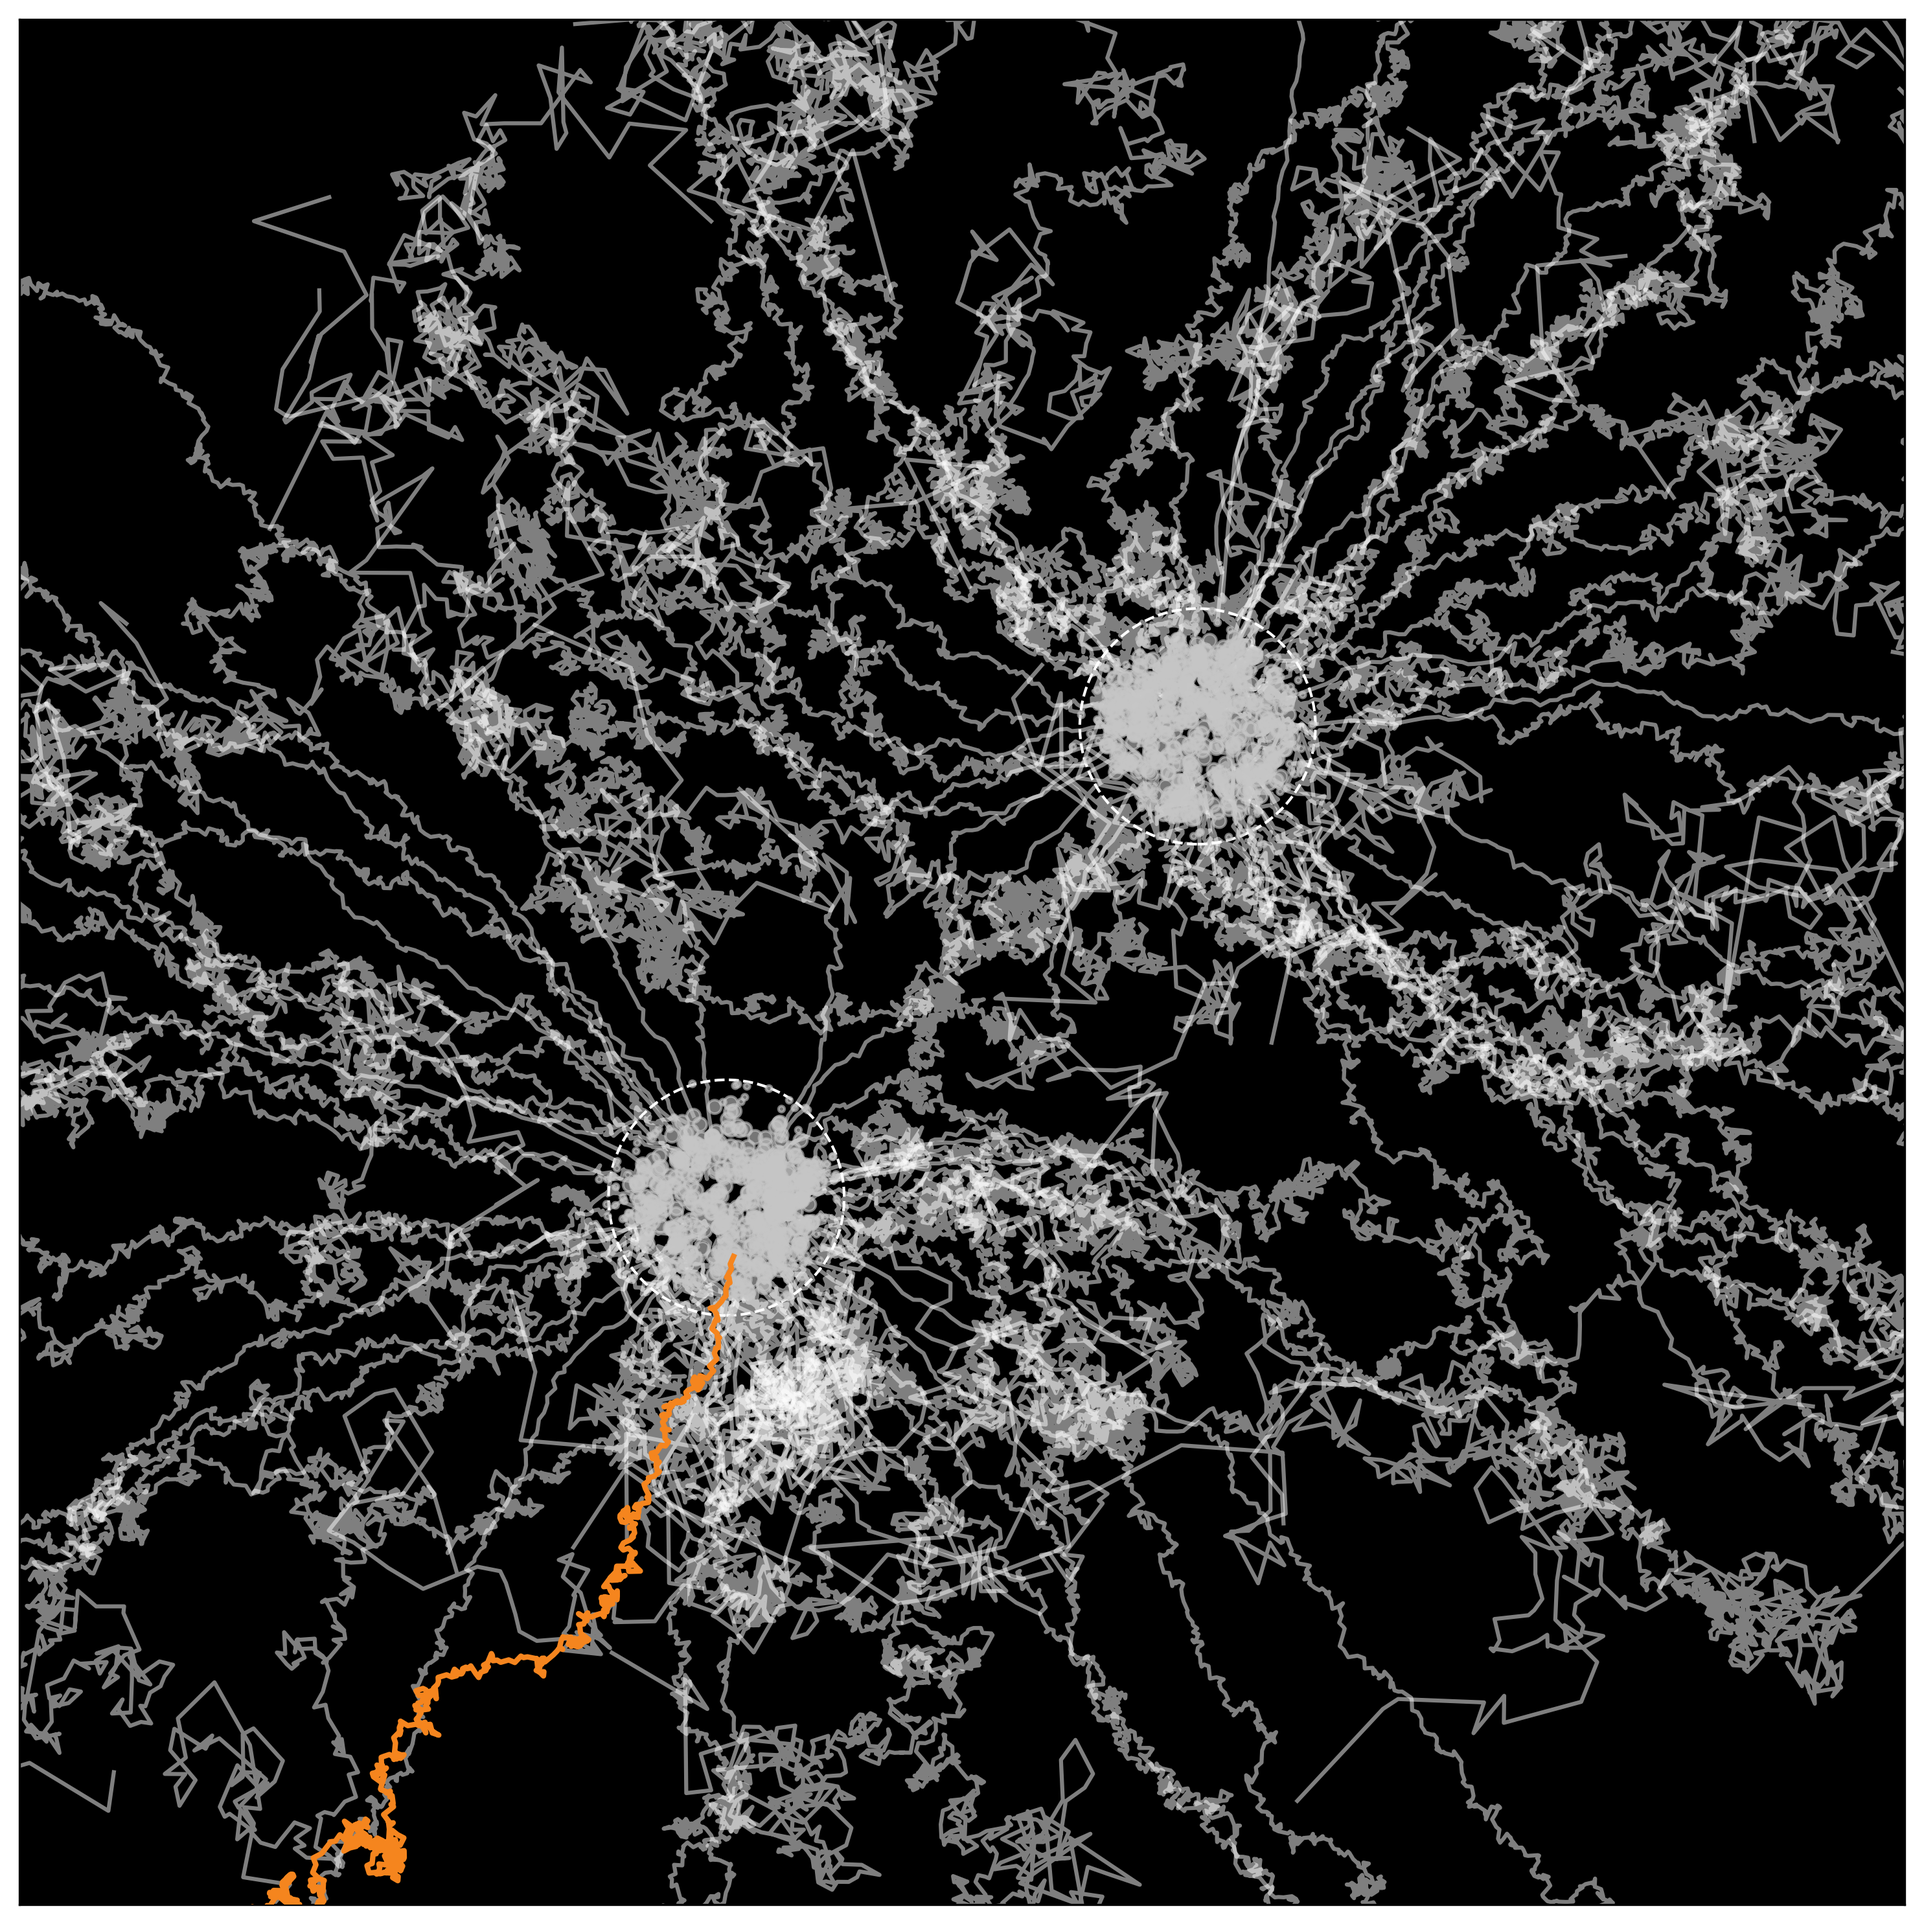
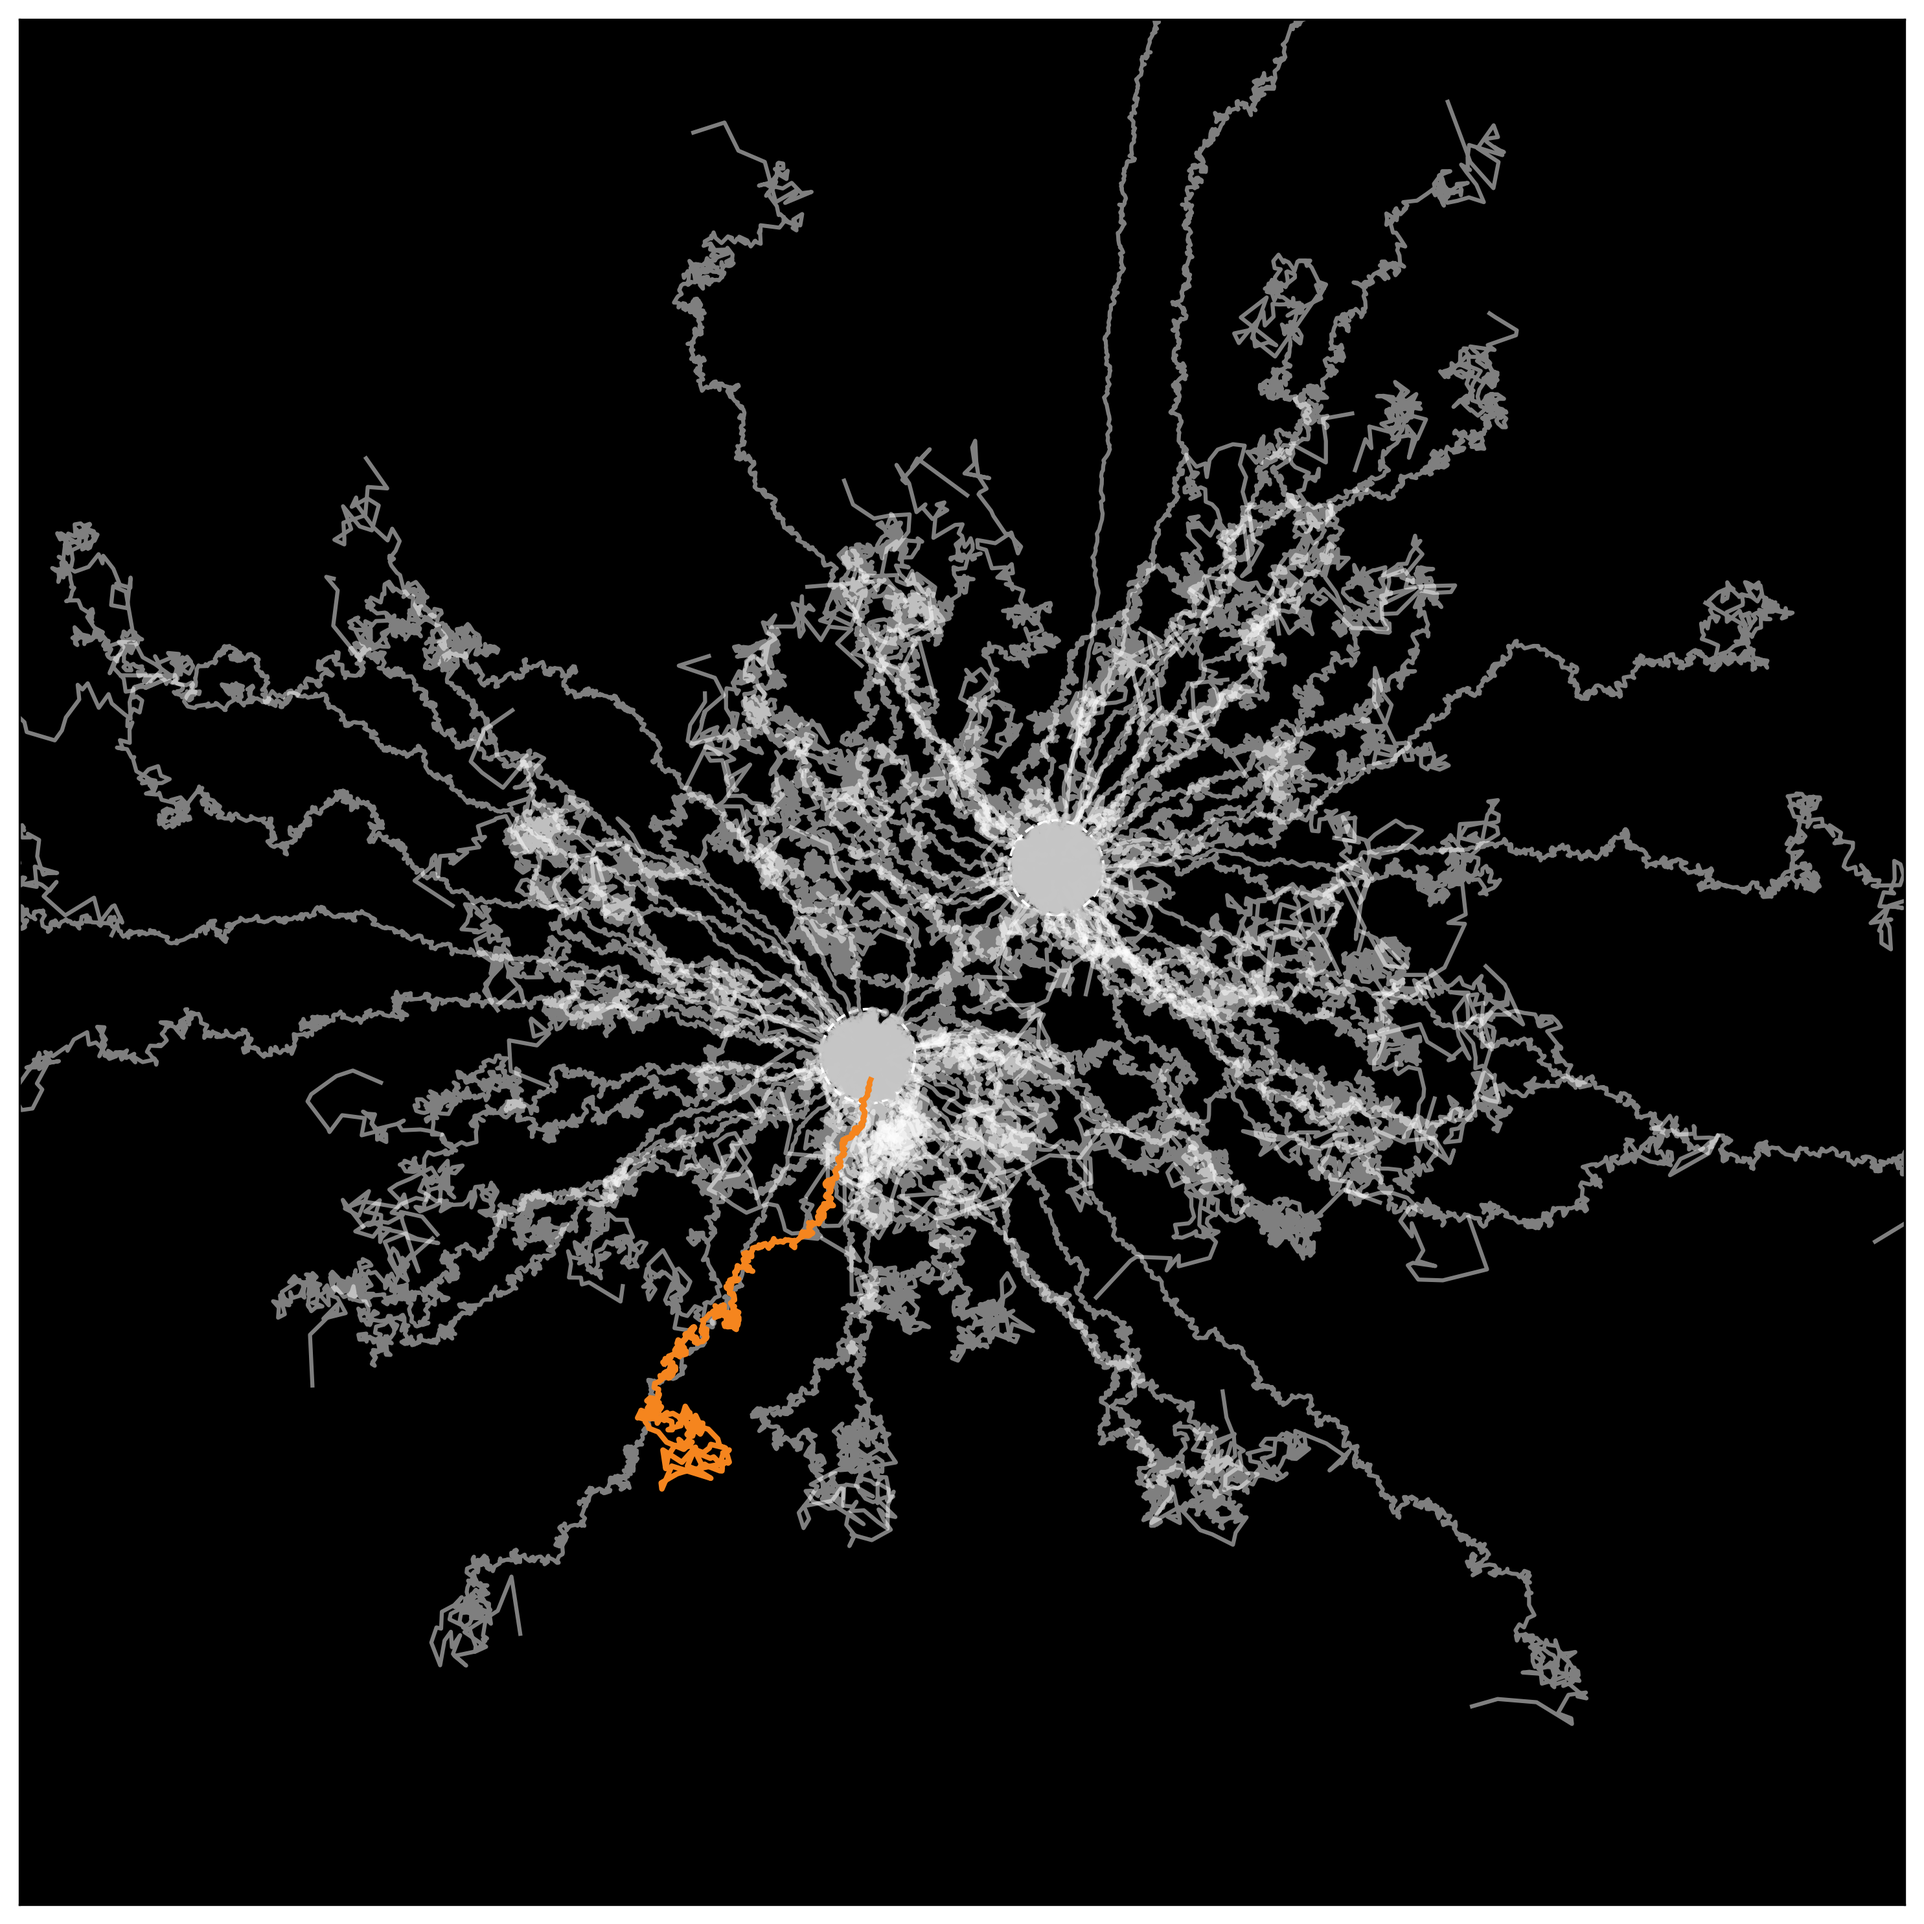
Alt version zoomed out, which I think I prefer :)

diff --git a/src/day8.py b/src/day8.py
@@ -155,8 +155,8 @@ def plot_evolution(
 
         # Formatting
         ax.set_facecolor(colors["background"])
-        ax.set_xlim(-4, 4)
-        ax.set_ylim(-4, 4)
+        ax.set_xlim(-10, 10)
+        ax.set_ylim(-10, 10)
         ax.set_aspect("equal")
         ax.set_xticks([])
         ax.set_yticks([])
